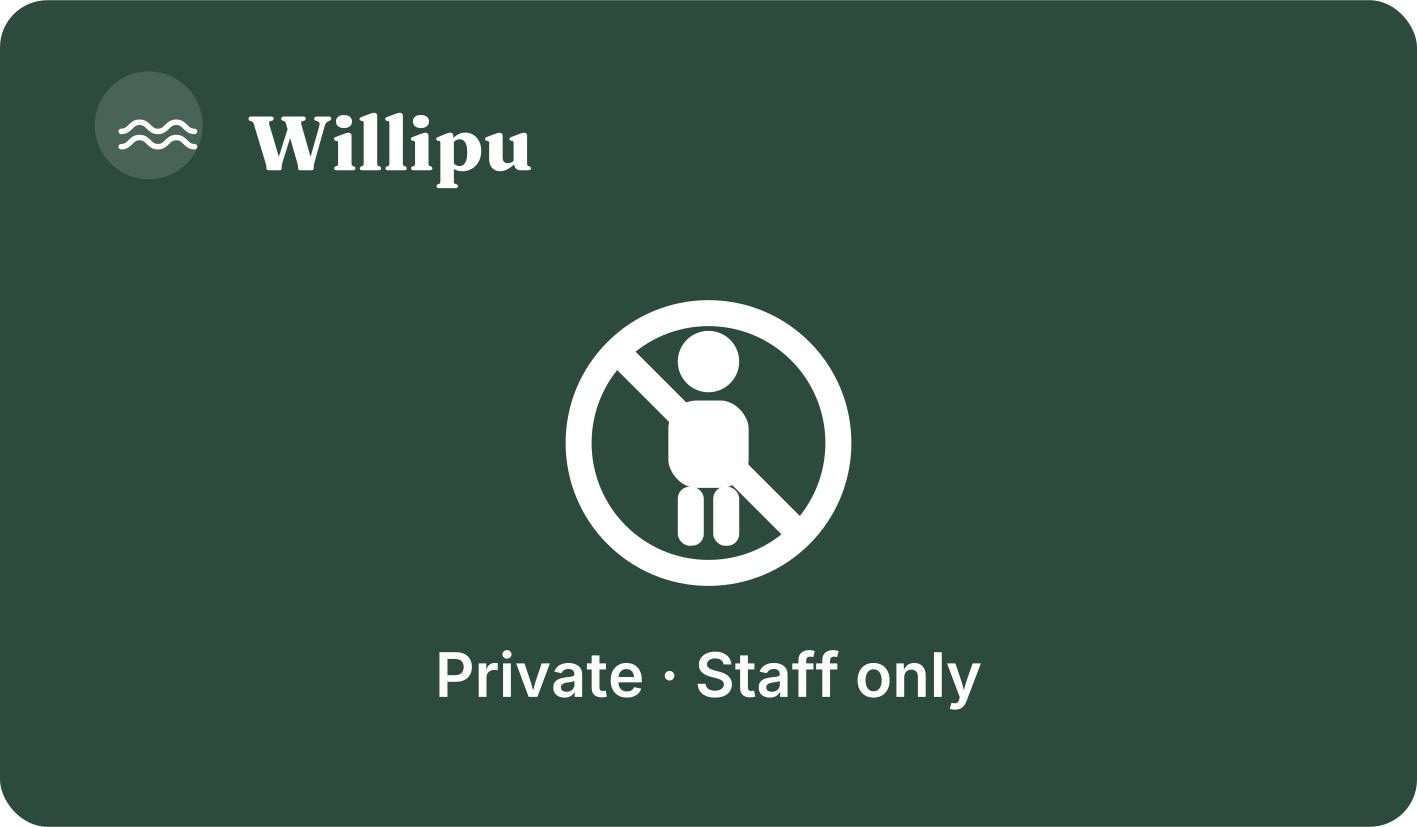
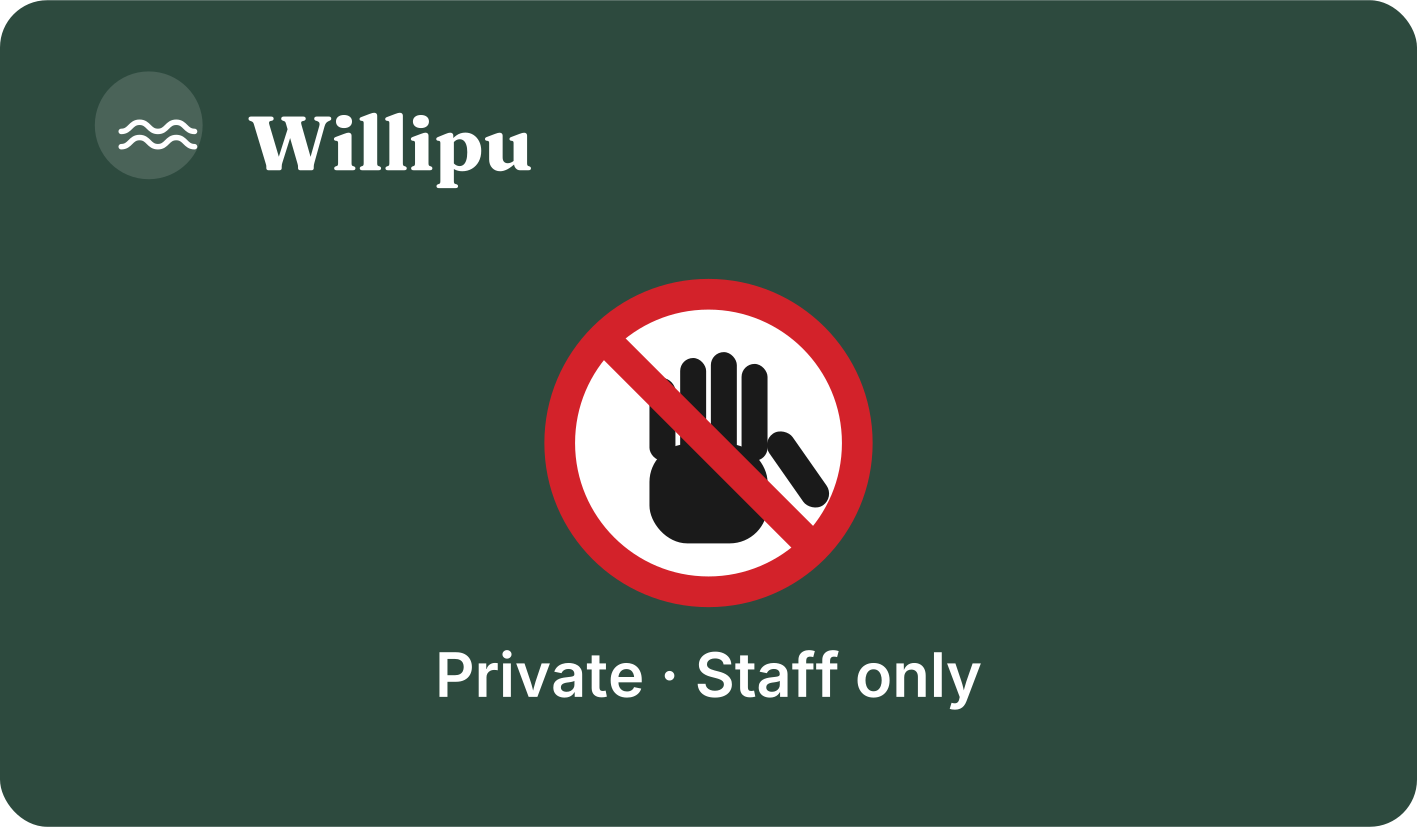
Privaatruumi silt: ISO-stiilis stopp-käsi punases keelavas ringis
https://claude.ai/code/session_01DAokWKEoiBPxSJTSGSSjnQ

Changed region(s): [[0.3726, 0.3325, 0.621, 0.7557]]

diff --git a/public/turundus/index.html b/public/turundus/index.html
@@ -70,7 +70,7 @@
   <main>
     <h1>Turundusmaterjalid</h1>
     <p class="intro">Logod, bännerid, reklaamid ja QR-kleebised allalaadimiseks. Leht pole avalikult lingitud ega otsingumootoritele nähtav — jaga ainult otselinki.</p>
-    <section><h2>Logod <small>Logo files</small></h2><a class="file" href="willipu_logo.svg" download="willipu_logo.svg"><span class="thumb"><span class="ext">SVG</span></span><span class="meta"><strong>Logo, värviline — vektor (SVG)</strong><small>willipu_logo.svg · 2 KB</small></span><span class="dl">⬇</span></a><a class="file" href="willipu_logo_white.svg" download="willipu_logo_white.svg"><span class="thumb"><span class="ext">SVG</span></span><span class="meta"><strong>Logo, valge — vektor (SVG)</strong><small>willipu_logo_white.svg · 2 KB</small></span><span class="dl">⬇</span></a><a class="file" href="willipu_logo.pdf" download="willipu_logo.pdf"><span class="thumb"><span class="ext">PDF</span></span><span class="meta"><strong>Logo — vektor (PDF)</strong><small>willipu_logo.pdf · 3 KB</small></span><span class="dl">⬇</span></a><a class="file" href="willipu_logo.png" download="willipu_logo.png"><span class="thumb"><img src="willipu_logo.png" loading="lazy" alt=""></span><span class="meta"><strong>Logo, värviline — läbipaistev PNG</strong><small>willipu_logo.png · 28 KB</small></span><span class="dl">⬇</span></a><a class="file" href="willipu_logo_white.png" download="willipu_logo_white.png"><span class="thumb"><img src="willipu_logo_white.png" loading="lazy" alt=""></span><span class="meta"><strong>Logo, valge — läbipaistev PNG</strong><small>willipu_logo_white.png · 24 KB</small></span><span class="dl">⬇</span></a></section><section><h2>Bännerid <small>Print banners · 2200×1000 mm</small></h2><a class="file" href="willipu_banner_2200x1000.pdf" download="willipu_banner_2200x1000.pdf"><span class="thumb"><span class="ext">PDF</span></span><span class="meta"><strong>Suur bänner 1 — trükifail (PDF)</strong><small>willipu_banner_2200x1000.pdf · 391 KB</small></span><span class="dl">⬇</span></a><a class="file" href="willipu_banner_2.pdf" download="willipu_banner_2.pdf"><span class="thumb"><span class="ext">PDF</span></span><span class="meta"><strong>Suur bänner 2 — trükifail (PDF)</strong><small>willipu_banner_2.pdf · 413 KB</small></span><span class="dl">⬇</span></a></section><section><h2>Facebook <small>Social media images</small></h2><a class="file" href="willipu_facebook_cover.jpg" download="willipu_facebook_cover.jpg"><span class="thumb"><img src="willipu_facebook_cover.jpg" loading="lazy" alt=""></span><span class="meta"><strong>Kaanefoto · 1640×624</strong><small>willipu_facebook_cover.jpg · 277 KB</small></span><span class="dl">⬇</span></a><a class="file" href="willipu_facebook_profile.jpg" download="willipu_facebook_profile.jpg"><span class="thumb"><img src="willipu_facebook_profile.jpg" loading="lazy" alt=""></span><span class="meta"><strong>Profiilipilt · 800×800</strong><small>willipu_facebook_profile.jpg · 63 KB</small></span><span class="dl">⬇</span></a><a class="file" href="willipu_fb_ad_1080.jpg" download="willipu_fb_ad_1080.jpg"><span class="thumb"><img src="willipu_fb_ad_1080.jpg" loading="lazy" alt=""></span><span class="meta"><strong>Reklaam · 1080×1080</strong><small>willipu_fb_ad_1080.jpg · 299 KB</small></span><span class="dl">⬇</span></a><a class="file" href="willipu_fb_ad_karavan.jpg" download="willipu_fb_ad_karavan.jpg"><span class="thumb"><img src="willipu_fb_ad_karavan.jpg" loading="lazy" alt=""></span><span class="meta"><strong>Karavani reklaam · 1080×1350</strong><small>willipu_fb_ad_karavan.jpg · 300 KB</small></span><span class="dl">⬇</span></a><a class="file" href="willipu_fb_ad_kar1.jpg" download="willipu_fb_ad_kar1.jpg"><span class="thumb"><img src="willipu_fb_ad_kar1.jpg" loading="lazy" alt=""></span><span class="meta"><strong>Karavani reklaam, taust 1 · 1080×1350</strong><small>willipu_fb_ad_kar1.jpg · 301 KB</small></span><span class="dl">⬇</span></a><a class="file" href="willipu_fb_ad_kar2.jpg" download="willipu_fb_ad_kar2.jpg"><span class="thumb"><img src="willipu_fb_ad_kar2.jpg" loading="lazy" alt=""></span><span class="meta"><strong>Karavani reklaam, taust 2 · 1080×1350</strong><small>willipu_fb_ad_kar2.jpg · 282 KB</small></span><span class="dl">⬇</span></a><a class="file" href="willipu_fb_ad_kar3.jpg" download="willipu_fb_ad_kar3.jpg"><span class="thumb"><img src="willipu_fb_ad_kar3.jpg" loading="lazy" alt=""></span><span class="meta"><strong>Karavani reklaam, taust 3 · 1080×1350</strong><small>willipu_fb_ad_kar3.jpg · 442 KB</small></span><span class="dl">⬇</span></a></section><section><h2>QR-kleebised · Pesumasin <small>willipu.ee/wash → juhend/pesumasin/</small></h2><a class="file" href="willipu_kleebis_pesumasin.pdf" download="willipu_kleebis_pesumasin.pdf"><span class="thumb"><span class="ext">PDF</span></span><span class="meta"><strong>Kleebis 120×120 mm — trükifail (vektor-PDF)</strong><small>willipu_kleebis_pesumasin.pdf · 60 KB</small></span><span class="dl">⬇</span></a><a class="file" href="willipu_kleebis_pesumasin.svg" download="willipu_kleebis_pesumasin.svg"><span class="thumb"><span class="ext">SVG</span></span><span class="meta"><strong>Kleebis — vektor (SVG)</strong><small>willipu_kleebis_pesumasin.svg · 79 KB</small></span><span class="dl">⬇</span></a><a class="file" href="willipu_kleebis_pesumasin.png" download="willipu_kleebis_pesumasin.png"><span class="thumb"><img src="willipu_kleebis_pesumasin.png" loading="lazy" alt=""></span><span class="meta"><strong>Kleebis — eelvaade (PNG, 300 dpi)</strong><small>willipu_kleebis_pesumasin.png · 68 KB</small></span><span class="dl">⬇</span></a><a class="file" href="willipu_qr_pesumasin.svg" download="willipu_qr_pesumasin.svg"><span class="thumb"><span class="ext">SVG</span></span><span class="meta"><strong>Ainult QR-kood — vektor (SVG)</strong><small>willipu_qr_pesumasin.svg · 14 KB</small></span><span class="dl">⬇</span></a><a class="file" href="willipu_qr_pesumasin.png" download="willipu_qr_pesumasin.png"><span class="thumb"><img src="willipu_qr_pesumasin.png" loading="lazy" alt=""></span><span class="meta"><strong>Ainult QR-kood (PNG)</strong><small>willipu_qr_pesumasin.png · 4 KB</small></span><span class="dl">⬇</span></a></section><section><h2>QR-kleebised · Pesukuivati <small>willipu.ee/dry → juhend/pesukuivati/</small></h2><a class="file" href="willipu_kleebis_pesukuivati.pdf" download="willipu_kleebis_pesukuivati.pdf"><span class="thumb"><span class="ext">PDF</span></span><span class="meta"><strong>Kleebis 120×120 mm — trükifail (vektor-PDF)</strong><small>willipu_kleebis_pesukuivati.pdf · 57 KB</small></span><span class="dl">⬇</span></a><a class="file" href="willipu_kleebis_pesukuivati.svg" download="willipu_kleebis_pesukuivati.svg"><span class="thumb"><span class="ext">SVG</span></span><span class="meta"><strong>Kleebis — vektor (SVG)</strong><small>willipu_kleebis_pesukuivati.svg · 76 KB</small></span><span class="dl">⬇</span></a><a class="file" href="willipu_kleebis_pesukuivati.png" download="willipu_kleebis_pesukuivati.png"><span class="thumb"><img src="willipu_kleebis_pesukuivati.png" loading="lazy" alt=""></span><span class="meta"><strong>Kleebis — eelvaade (PNG, 300 dpi)</strong><small>willipu_kleebis_pesukuivati.png · 68 KB</small></span><span class="dl">⬇</span></a><a class="file" href="willipu_qr_pesukuivati.svg" download="willipu_qr_pesukuivati.svg"><span class="thumb"><span class="ext">SVG</span></span><span class="meta"><strong>Ainult QR-kood — vektor (SVG)</strong><small>willipu_qr_pesukuivati.svg · 14 KB</small></span><span class="dl">⬇</span></a><a class="file" href="willipu_qr_pesukuivati.png" download="willipu_qr_pesukuivati.png"><span class="thumb"><img src="willipu_qr_pesukuivati.png" loading="lazy" alt=""></span><span class="meta"><strong>Ainult QR-kood (PNG)</strong><small>willipu_qr_pesukuivati.png · 4 KB</small></span><span class="dl">⬇</span></a></section><section><h2>QR-kleebised · Saun <small>willipu.ee/juhend/saun/</small></h2><a class="file" href="willipu_kleebis_saun.pdf" download="willipu_kleebis_saun.pdf"><span class="thumb"><span class="ext">PDF</span></span><span class="meta"><strong>Kleebis 80×100 mm — trükifail (vektor-PDF)</strong><small>willipu_kleebis_saun.pdf · 35 KB</small></span><span class="dl">⬇</span></a><a class="file" href="willipu_kleebis_saun.svg" download="willipu_kleebis_saun.svg"><span class="thumb"><span class="ext">SVG</span></span><span class="meta"><strong>Kleebis — vektor (SVG)</strong><small>willipu_kleebis_saun.svg · 52 KB</small></span><span class="dl">⬇</span></a><a class="file" href="willipu_kleebis_saun.png" download="willipu_kleebis_saun.png"><span class="thumb"><img src="willipu_kleebis_saun.png" loading="lazy" alt=""></span><span class="meta"><strong>Kleebis — eelvaade (PNG, 300 dpi)</strong><small>willipu_kleebis_saun.png · 35 KB</small></span><span class="dl">⬇</span></a><a class="file" href="willipu_qr_saun.svg" download="willipu_qr_saun.svg"><span class="thumb"><span class="ext">SVG</span></span><span class="meta"><strong>Ainult QR-kood — vektor (SVG)</strong><small>willipu_qr_saun.svg · 19 KB</small></span><span class="dl">⬇</span></a><a class="file" href="willipu_qr_saun.png" download="willipu_qr_saun.png"><span class="thumb"><img src="willipu_qr_saun.png" loading="lazy" alt=""></span><span class="meta"><strong>Ainult QR-kood (PNG)</strong><small>willipu_qr_saun.png · 4 KB</small></span><span class="dl">⬇</span></a></section><section><h2>Uksesildid · Privaatruum <small>Door signs · 120×70 mm</small></h2><a class="file" href="willipu_kleebis_privaatruum.pdf" download="willipu_kleebis_privaatruum.pdf"><span class="thumb"><span class="ext">PDF</span></span><span class="meta"><strong>Privaatruumi uksesilt 120×70 mm — trükifail (vektor-PDF)</strong><small>willipu_kleebis_privaatruum.pdf · 11 KB</small></span><span class="dl">⬇</span></a><a class="file" href="willipu_kleebis_privaatruum.svg" download="willipu_kleebis_privaatruum.svg"><span class="thumb"><span class="ext">SVG</span></span><span class="meta"><strong>Privaatruumi uksesilt — vektor (SVG)</strong><small>willipu_kleebis_privaatruum.svg · 12 KB</small></span><span class="dl">⬇</span></a><a class="file" href="willipu_kleebis_privaatruum.png" download="willipu_kleebis_privaatruum.png"><span class="thumb"><img src="willipu_kleebis_privaatruum.png" loading="lazy" alt=""></span><span class="meta"><strong>Privaatruumi uksesilt — eelvaade (PNG, 300 dpi)</strong><small>willipu_kleebis_privaatruum.png · 50 KB</small></span><span class="dl">⬇</span></a></section><section><h2>Infotahvlid <small>Info boards · A3, 297×420 mm</small></h2><a class="file" href="willipu_tahvel_purgimine.pdf" download="willipu_tahvel_purgimine.pdf"><span class="thumb"><span class="ext">PDF</span></span><span class="meta"><strong>Purgimisplatsi infotahvel A3 — trükifail (vektor-PDF)</strong><small>willipu_tahvel_purgimine.pdf · 99 KB</small></span><span class="dl">⬇</span></a><a class="file" href="willipu_tahvel_purgimine.svg" download="willipu_tahvel_purgimine.svg"><span class="thumb"><span class="ext">SVG</span></span><span class="meta"><strong>Purgimisplatsi infotahvel — vektor (SVG)</strong><small>willipu_tahvel_purgimine.svg · 118 KB</small></span><span class="dl">⬇</span></a><a class="file" href="willipu_tahvel_purgimine.png" download="willipu_tahvel_purgimine.png"><span class="thumb"><img src="willipu_tahvel_purgimine.png" loading="lazy" alt=""></span><span class="meta"><strong>Purgimisplatsi infotahvel — eelvaade (PNG)</strong><small>willipu_tahvel_purgimine.png · 167 KB</small></span><span class="dl">⬇</span></a></section><section><h2>Piktogrammid <small>Site pictograms · 19 tk, SVG + PNG</small></h2>
+    <section><h2>Logod <small>Logo files</small></h2><a class="file" href="willipu_logo.svg" download="willipu_logo.svg"><span class="thumb"><span class="ext">SVG</span></span><span class="meta"><strong>Logo, värviline — vektor (SVG)</strong><small>willipu_logo.svg · 2 KB</small></span><span class="dl">⬇</span></a><a class="file" href="willipu_logo_white.svg" download="willipu_logo_white.svg"><span class="thumb"><span class="ext">SVG</span></span><span class="meta"><strong>Logo, valge — vektor (SVG)</strong><small>willipu_logo_white.svg · 2 KB</small></span><span class="dl">⬇</span></a><a class="file" href="willipu_logo.pdf" download="willipu_logo.pdf"><span class="thumb"><span class="ext">PDF</span></span><span class="meta"><strong>Logo — vektor (PDF)</strong><small>willipu_logo.pdf · 3 KB</small></span><span class="dl">⬇</span></a><a class="file" href="willipu_logo.png" download="willipu_logo.png"><span class="thumb"><img src="willipu_logo.png" loading="lazy" alt=""></span><span class="meta"><strong>Logo, värviline — läbipaistev PNG</strong><small>willipu_logo.png · 28 KB</small></span><span class="dl">⬇</span></a><a class="file" href="willipu_logo_white.png" download="willipu_logo_white.png"><span class="thumb"><img src="willipu_logo_white.png" loading="lazy" alt=""></span><span class="meta"><strong>Logo, valge — läbipaistev PNG</strong><small>willipu_logo_white.png · 24 KB</small></span><span class="dl">⬇</span></a></section><section><h2>Bännerid <small>Print banners · 2200×1000 mm</small></h2><a class="file" href="willipu_banner_2200x1000.pdf" download="willipu_banner_2200x1000.pdf"><span class="thumb"><span class="ext">PDF</span></span><span class="meta"><strong>Suur bänner 1 — trükifail (PDF)</strong><small>willipu_banner_2200x1000.pdf · 391 KB</small></span><span class="dl">⬇</span></a><a class="file" href="willipu_banner_2.pdf" download="willipu_banner_2.pdf"><span class="thumb"><span class="ext">PDF</span></span><span class="meta"><strong>Suur bänner 2 — trükifail (PDF)</strong><small>willipu_banner_2.pdf · 413 KB</small></span><span class="dl">⬇</span></a></section><section><h2>Facebook <small>Social media images</small></h2><a class="file" href="willipu_facebook_cover.jpg" download="willipu_facebook_cover.jpg"><span class="thumb"><img src="willipu_facebook_cover.jpg" loading="lazy" alt=""></span><span class="meta"><strong>Kaanefoto · 1640×624</strong><small>willipu_facebook_cover.jpg · 277 KB</small></span><span class="dl">⬇</span></a><a class="file" href="willipu_facebook_profile.jpg" download="willipu_facebook_profile.jpg"><span class="thumb"><img src="willipu_facebook_profile.jpg" loading="lazy" alt=""></span><span class="meta"><strong>Profiilipilt · 800×800</strong><small>willipu_facebook_profile.jpg · 63 KB</small></span><span class="dl">⬇</span></a><a class="file" href="willipu_fb_ad_1080.jpg" download="willipu_fb_ad_1080.jpg"><span class="thumb"><img src="willipu_fb_ad_1080.jpg" loading="lazy" alt=""></span><span class="meta"><strong>Reklaam · 1080×1080</strong><small>willipu_fb_ad_1080.jpg · 299 KB</small></span><span class="dl">⬇</span></a><a class="file" href="willipu_fb_ad_karavan.jpg" download="willipu_fb_ad_karavan.jpg"><span class="thumb"><img src="willipu_fb_ad_karavan.jpg" loading="lazy" alt=""></span><span class="meta"><strong>Karavani reklaam · 1080×1350</strong><small>willipu_fb_ad_karavan.jpg · 300 KB</small></span><span class="dl">⬇</span></a><a class="file" href="willipu_fb_ad_kar1.jpg" download="willipu_fb_ad_kar1.jpg"><span class="thumb"><img src="willipu_fb_ad_kar1.jpg" loading="lazy" alt=""></span><span class="meta"><strong>Karavani reklaam, taust 1 · 1080×1350</strong><small>willipu_fb_ad_kar1.jpg · 301 KB</small></span><span class="dl">⬇</span></a><a class="file" href="willipu_fb_ad_kar2.jpg" download="willipu_fb_ad_kar2.jpg"><span class="thumb"><img src="willipu_fb_ad_kar2.jpg" loading="lazy" alt=""></span><span class="meta"><strong>Karavani reklaam, taust 2 · 1080×1350</strong><small>willipu_fb_ad_kar2.jpg · 282 KB</small></span><span class="dl">⬇</span></a><a class="file" href="willipu_fb_ad_kar3.jpg" download="willipu_fb_ad_kar3.jpg"><span class="thumb"><img src="willipu_fb_ad_kar3.jpg" loading="lazy" alt=""></span><span class="meta"><strong>Karavani reklaam, taust 3 · 1080×1350</strong><small>willipu_fb_ad_kar3.jpg · 442 KB</small></span><span class="dl">⬇</span></a></section><section><h2>QR-kleebised · Pesumasin <small>willipu.ee/wash → juhend/pesumasin/</small></h2><a class="file" href="willipu_kleebis_pesumasin.pdf" download="willipu_kleebis_pesumasin.pdf"><span class="thumb"><span class="ext">PDF</span></span><span class="meta"><strong>Kleebis 120×120 mm — trükifail (vektor-PDF)</strong><small>willipu_kleebis_pesumasin.pdf · 60 KB</small></span><span class="dl">⬇</span></a><a class="file" href="willipu_kleebis_pesumasin.svg" download="willipu_kleebis_pesumasin.svg"><span class="thumb"><span class="ext">SVG</span></span><span class="meta"><strong>Kleebis — vektor (SVG)</strong><small>willipu_kleebis_pesumasin.svg · 79 KB</small></span><span class="dl">⬇</span></a><a class="file" href="willipu_kleebis_pesumasin.png" download="willipu_kleebis_pesumasin.png"><span class="thumb"><img src="willipu_kleebis_pesumasin.png" loading="lazy" alt=""></span><span class="meta"><strong>Kleebis — eelvaade (PNG, 300 dpi)</strong><small>willipu_kleebis_pesumasin.png · 68 KB</small></span><span class="dl">⬇</span></a><a class="file" href="willipu_qr_pesumasin.svg" download="willipu_qr_pesumasin.svg"><span class="thumb"><span class="ext">SVG</span></span><span class="meta"><strong>Ainult QR-kood — vektor (SVG)</strong><small>willipu_qr_pesumasin.svg · 14 KB</small></span><span class="dl">⬇</span></a><a class="file" href="willipu_qr_pesumasin.png" download="willipu_qr_pesumasin.png"><span class="thumb"><img src="willipu_qr_pesumasin.png" loading="lazy" alt=""></span><span class="meta"><strong>Ainult QR-kood (PNG)</strong><small>willipu_qr_pesumasin.png · 4 KB</small></span><span class="dl">⬇</span></a></section><section><h2>QR-kleebised · Pesukuivati <small>willipu.ee/dry → juhend/pesukuivati/</small></h2><a class="file" href="willipu_kleebis_pesukuivati.pdf" download="willipu_kleebis_pesukuivati.pdf"><span class="thumb"><span class="ext">PDF</span></span><span class="meta"><strong>Kleebis 120×120 mm — trükifail (vektor-PDF)</strong><small>willipu_kleebis_pesukuivati.pdf · 57 KB</small></span><span class="dl">⬇</span></a><a class="file" href="willipu_kleebis_pesukuivati.svg" download="willipu_kleebis_pesukuivati.svg"><span class="thumb"><span class="ext">SVG</span></span><span class="meta"><strong>Kleebis — vektor (SVG)</strong><small>willipu_kleebis_pesukuivati.svg · 76 KB</small></span><span class="dl">⬇</span></a><a class="file" href="willipu_kleebis_pesukuivati.png" download="willipu_kleebis_pesukuivati.png"><span class="thumb"><img src="willipu_kleebis_pesukuivati.png" loading="lazy" alt=""></span><span class="meta"><strong>Kleebis — eelvaade (PNG, 300 dpi)</strong><small>willipu_kleebis_pesukuivati.png · 68 KB</small></span><span class="dl">⬇</span></a><a class="file" href="willipu_qr_pesukuivati.svg" download="willipu_qr_pesukuivati.svg"><span class="thumb"><span class="ext">SVG</span></span><span class="meta"><strong>Ainult QR-kood — vektor (SVG)</strong><small>willipu_qr_pesukuivati.svg · 14 KB</small></span><span class="dl">⬇</span></a><a class="file" href="willipu_qr_pesukuivati.png" download="willipu_qr_pesukuivati.png"><span class="thumb"><img src="willipu_qr_pesukuivati.png" loading="lazy" alt=""></span><span class="meta"><strong>Ainult QR-kood (PNG)</strong><small>willipu_qr_pesukuivati.png · 4 KB</small></span><span class="dl">⬇</span></a></section><section><h2>QR-kleebised · Saun <small>willipu.ee/juhend/saun/</small></h2><a class="file" href="willipu_kleebis_saun.pdf" download="willipu_kleebis_saun.pdf"><span class="thumb"><span class="ext">PDF</span></span><span class="meta"><strong>Kleebis 80×100 mm — trükifail (vektor-PDF)</strong><small>willipu_kleebis_saun.pdf · 35 KB</small></span><span class="dl">⬇</span></a><a class="file" href="willipu_kleebis_saun.svg" download="willipu_kleebis_saun.svg"><span class="thumb"><span class="ext">SVG</span></span><span class="meta"><strong>Kleebis — vektor (SVG)</strong><small>willipu_kleebis_saun.svg · 52 KB</small></span><span class="dl">⬇</span></a><a class="file" href="willipu_kleebis_saun.png" download="willipu_kleebis_saun.png"><span class="thumb"><img src="willipu_kleebis_saun.png" loading="lazy" alt=""></span><span class="meta"><strong>Kleebis — eelvaade (PNG, 300 dpi)</strong><small>willipu_kleebis_saun.png · 35 KB</small></span><span class="dl">⬇</span></a><a class="file" href="willipu_qr_saun.svg" download="willipu_qr_saun.svg"><span class="thumb"><span class="ext">SVG</span></span><span class="meta"><strong>Ainult QR-kood — vektor (SVG)</strong><small>willipu_qr_saun.svg · 19 KB</small></span><span class="dl">⬇</span></a><a class="file" href="willipu_qr_saun.png" download="willipu_qr_saun.png"><span class="thumb"><img src="willipu_qr_saun.png" loading="lazy" alt=""></span><span class="meta"><strong>Ainult QR-kood (PNG)</strong><small>willipu_qr_saun.png · 4 KB</small></span><span class="dl">⬇</span></a></section><section><h2>Uksesildid · Privaatruum <small>Door signs · 120×70 mm</small></h2><a class="file" href="willipu_kleebis_privaatruum.pdf" download="willipu_kleebis_privaatruum.pdf"><span class="thumb"><span class="ext">PDF</span></span><span class="meta"><strong>Privaatruumi uksesilt 120×70 mm — trükifail (vektor-PDF)</strong><small>willipu_kleebis_privaatruum.pdf · 11 KB</small></span><span class="dl">⬇</span></a><a class="file" href="willipu_kleebis_privaatruum.svg" download="willipu_kleebis_privaatruum.svg"><span class="thumb"><span class="ext">SVG</span></span><span class="meta"><strong>Privaatruumi uksesilt — vektor (SVG)</strong><small>willipu_kleebis_privaatruum.svg · 13 KB</small></span><span class="dl">⬇</span></a><a class="file" href="willipu_kleebis_privaatruum.png" download="willipu_kleebis_privaatruum.png"><span class="thumb"><img src="willipu_kleebis_privaatruum.png" loading="lazy" alt=""></span><span class="meta"><strong>Privaatruumi uksesilt — eelvaade (PNG, 300 dpi)</strong><small>willipu_kleebis_privaatruum.png · 52 KB</small></span><span class="dl">⬇</span></a></section><section><h2>Infotahvlid <small>Info boards · A3, 297×420 mm</small></h2><a class="file" href="willipu_tahvel_purgimine.pdf" download="willipu_tahvel_purgimine.pdf"><span class="thumb"><span class="ext">PDF</span></span><span class="meta"><strong>Purgimisplatsi infotahvel A3 — trükifail (vektor-PDF)</strong><small>willipu_tahvel_purgimine.pdf · 99 KB</small></span><span class="dl">⬇</span></a><a class="file" href="willipu_tahvel_purgimine.svg" download="willipu_tahvel_purgimine.svg"><span class="thumb"><span class="ext">SVG</span></span><span class="meta"><strong>Purgimisplatsi infotahvel — vektor (SVG)</strong><small>willipu_tahvel_purgimine.svg · 118 KB</small></span><span class="dl">⬇</span></a><a class="file" href="willipu_tahvel_purgimine.png" download="willipu_tahvel_purgimine.png"><span class="thumb"><img src="willipu_tahvel_purgimine.png" loading="lazy" alt=""></span><span class="meta"><strong>Purgimisplatsi infotahvel — eelvaade (PNG)</strong><small>willipu_tahvel_purgimine.png · 167 KB</small></span><span class="dl">⬇</span></a></section><section><h2>Piktogrammid <small>Site pictograms · 19 tk, SVG + PNG</small></h2>
 <a class="file" href="piktogrammid/willipu_piktogrammid.zip" download="willipu_piktogrammid.zip">
 <span class="thumb"><span class="ext">ZIP</span></span>
 <span class="meta"><strong>Kõik piktogrammid ühe failina</strong><small>willipu_piktogrammid.zip · 126 KB</small></span>

diff --git a/make_privaatruum_kleebis.py b/make_privaatruum_kleebis.py
@@ -66,15 +66,18 @@ svg = f'''<svg xmlns="http://www.w3.org/2000/svg" width="120mm" height="70mm" vi
     </g>
   </g>
   {brand}
-  <!-- prohibition pictogram: standing person inside crossed ring -->
-  <g fill="#ffffff">
-    <circle cx="60" cy="30.6" r="2.6"/>
-    <rect x="56.6" y="33.9" width="6.8" height="7.4" rx="2.4"/>
-    <rect x="57.4" y="41.2" width="2.2" height="5.0" rx="1.0"/>
-    <rect x="60.4" y="41.2" width="2.2" height="5.0" rx="1.0"/>
+  <!-- prohibition pictogram: ISO-style stop hand in red crossed ring -->
+  <circle cx="60" cy="37.5" r="12.6" fill="#ffffff"/>
+  <g fill="#1a1a1a">
+    <rect x="55.0" y="32.0" width="2.2" height="7.0" rx="1.1"/>
+    <rect x="57.6" y="30.3" width="2.2" height="8.7" rx="1.1"/>
+    <rect x="60.2" y="29.8" width="2.2" height="9.2" rx="1.1"/>
+    <rect x="62.8" y="30.8" width="2.2" height="8.2" rx="1.1"/>
+    <rect x="55.0" y="37.6" width="10.0" height="8.4" rx="3.2"/>
+    <rect x="64.6" y="36.6" width="2.4" height="7.4" rx="1.2" transform="rotate(-35 65.8 37.2)"/>
   </g>
-  <circle cx="60" cy="37.5" r="11" fill="none" stroke="#ffffff" stroke-width="2.2"/>
-  <line x1="52.2" y1="29.7" x2="67.8" y2="45.3" stroke="#ffffff" stroke-width="2.2"/>
+  <circle cx="60" cy="37.5" r="12.6" fill="none" stroke="#d3222a" stroke-width="2.6"/>
+  <line x1="51.1" y1="28.6" x2="68.9" y2="46.4" stroke="#d3222a" stroke-width="2.6"/>
   {en}
 </svg>'''
 
